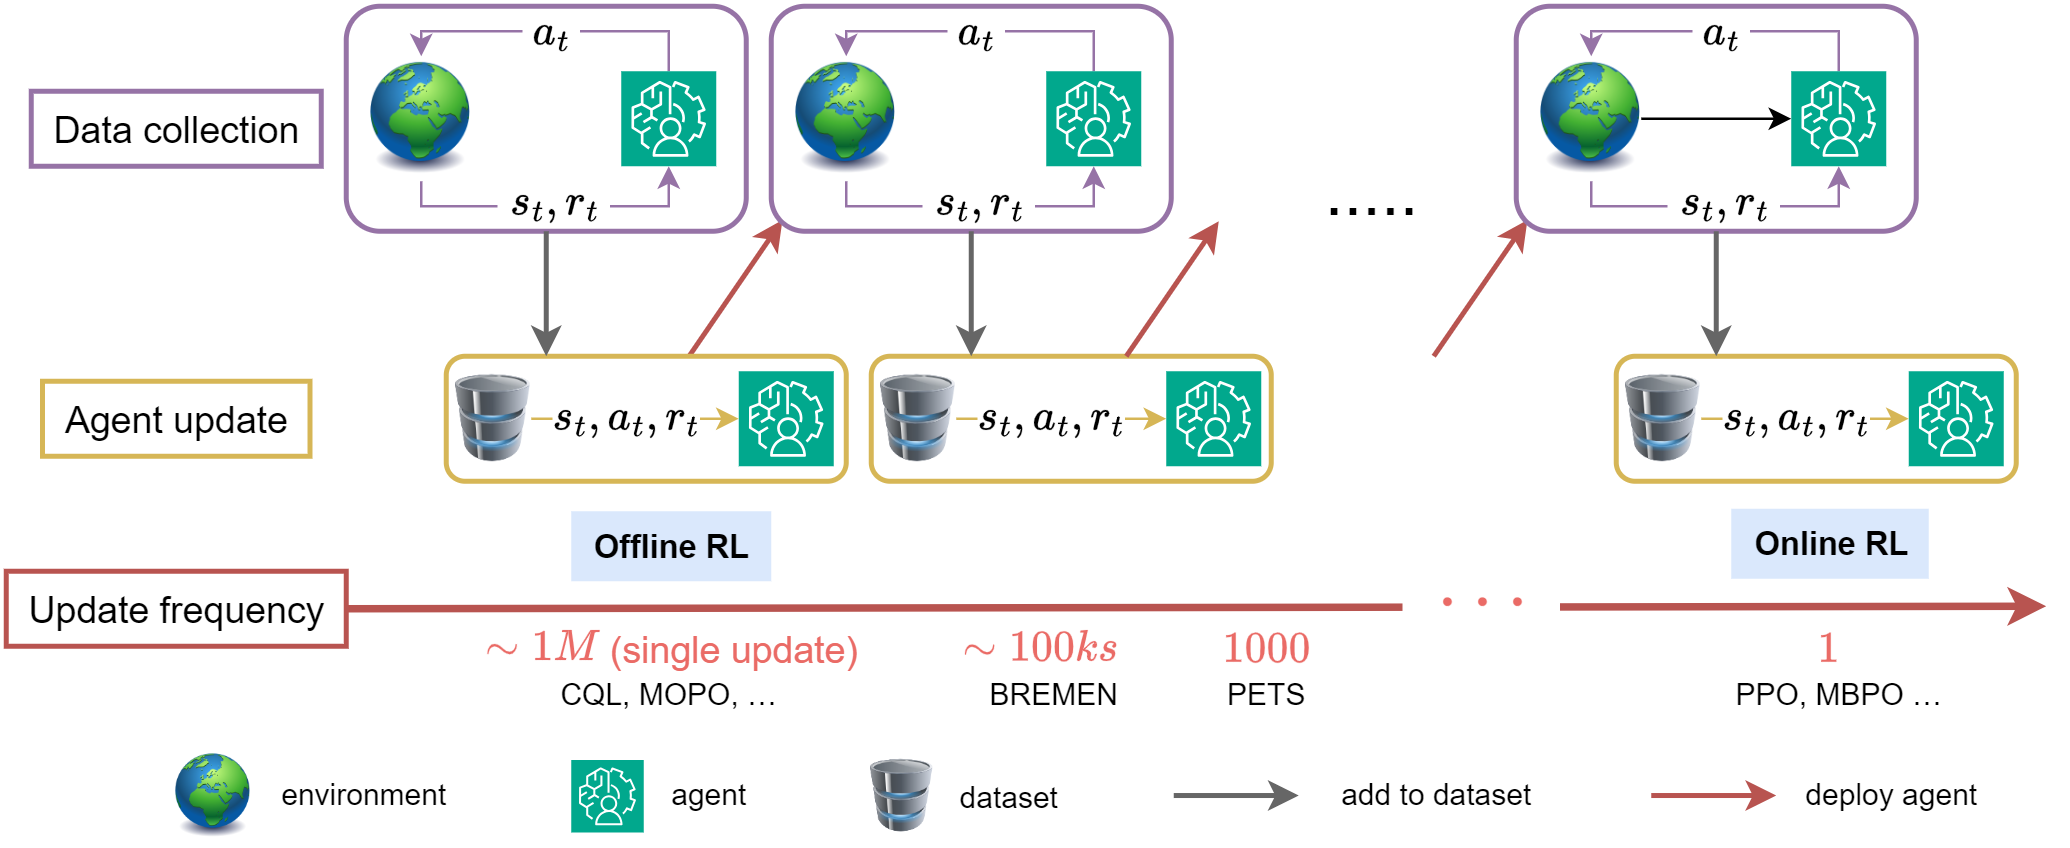
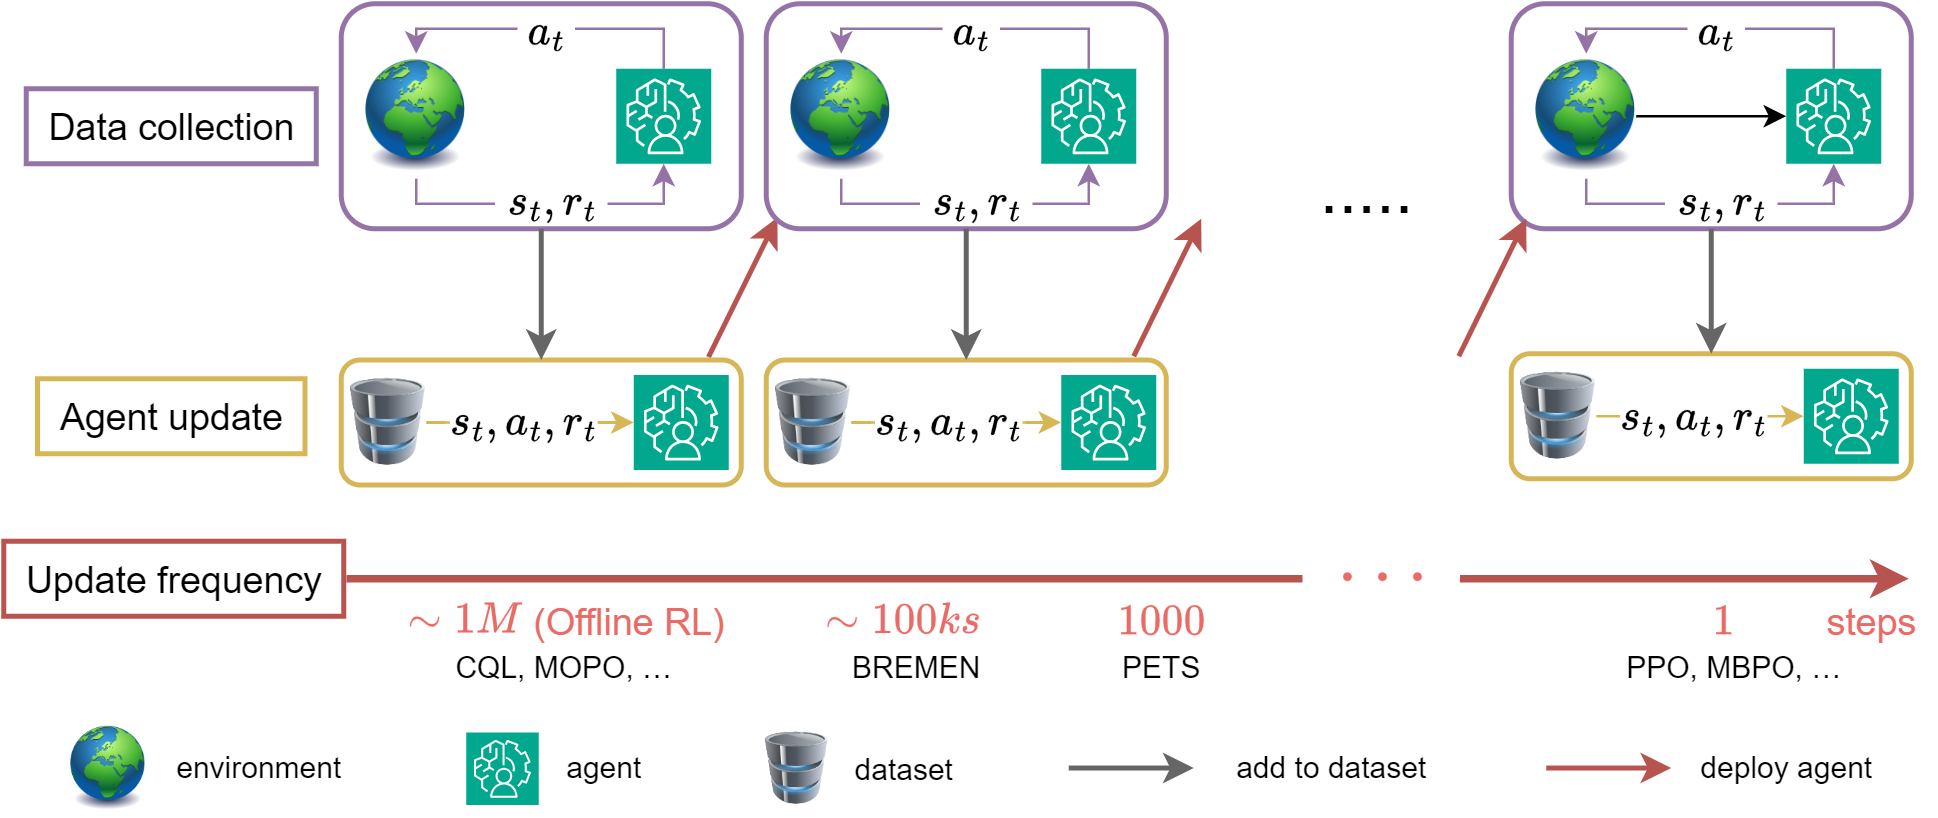
pass

diff --git a/_posts/2024-05-07-update-frequency-in-mbrl.md b/_posts/2024-05-07-update-frequency-in-mbrl.md
@@ -15,9 +15,9 @@ authors:
   - name: Abdelhakim Benechehab
     url: https://scholar.google.com/citations?user=JxgqOKwAAAAJ
     affiliations:
-      name: Huawei Noah's Ark Lab
+      name: Huawei Noah's Ark Lab - Department of Data Science, EURECOM, France
   - name: Giuseppe Paolo
-    url: XXX
+    url: https://www.giupaolo.com
     affiliations:
       name: Huawei Noah's Ark Lab
   - name: Balázs Kégl
@@ -73,10 +73,9 @@ In reinforcement learning <d-cite key="Sutton1998"></d-cite>, an agent learns to
 
 There are two main approaches when designing a reinforcement learning algorithm: model-based or model-free. Model-based reinforcement learning (MBRL) algorithms <d-cite key="Moerland2021"></d-cite> first learn a model of the environment dynamics which, given a state of the environment and an action, predicts the next state of the environment. This model can then be used in place of the real environment to learn or decide how to act. Model-free algorithms avoid this step and directly try to learn a policy. As model-based reinforcement algorithms can rely on the learned dynamics model instead of the real environment, they are known to be more sample efficient than model-free algorithms (see for instance <d-cite key="Chua2018"></d-cite> or <d-cite key="Janner2019"></d-cite>). MBRL is thus a good choice when interactions with the environment are limited, which is often the case for real applications such as controlling engineering systems.
 
-We discuss here about one of the design choices of MBRL algorithms: the *update frequency* of the agent. As shown in the following figure, inspired by the one done in <d-cite key="Matsushima2021"></d-cite>, the frequency at which algorithms update their agent varies widely: some algorithms update their agent after each step on the real system <d-cite key="Janner2019"></d-cite> while others update after thousands of steps <d-cite key="Matsushima2021"></d-cite>. At the end of the spectrum, the pure offline setting considers only a single training of the agent from an initial dataset <d-cite key="Yu2020"></d-cite><d-footnote> We observe that similar differences in update frequency exist in the model-free literature but we decide to focus only on model-based algorithms.</d-footnote>.
+We discuss here about one of the design choices of MBRL algorithms: the *update frequency* of the agent. As shown in the figure below<d-footnote> This figure is inspired by Figure 1 in <d-cite key="Matsushima2021"></d-cite>.</d-footnote>, the frequency at which algorithms update their agent varies widely: some algorithms update their agent after each step on the real system <d-cite key="Janner2019"></d-cite> while others update after thousands of steps <d-cite key="Matsushima2021"></d-cite>. At the end of the spectrum, the pure offline setting considers only a single training of the agent from an initial dataset <d-cite key="Yu2020"></d-cite><d-footnote> We observe that similar differences in update frequency exist in the model-free literature but we decide to focus only on model-based algorithms.</d-footnote>.
 
 {% include figure.html path="assets/img/2024-05-07-update-frequency-in-mbrl/bremen.png" class="img-fluid" %}
-
 
 The update frequency is often viewed as yet another hyperparameter of the complex MBRL pipeline. However, in practice the update frequency may be imposed by real-life deployment constraints, motivating the discussions in this blog post. It is often the case that for safety reasons, system engineers agree to run a new agent on their system for a given period of time but prefer the agent to be fixed during this deployment, as <d-cite key="Matsushima2021"></d-cite> studies. System engineers are then able to investigate the fixed solution before deciding to deploy it, knowing that it will not change during the deployment. It also happens that the system on which the agent is deployed does not have the required computational resources to support agent updates. Such real-life constraints could thus discard state-of-the-art MBRL algorithms that require updating their agent too frequently to perform well.
     
@@ -92,8 +91,7 @@ We begin by introducing three popular MBRL algorithms (MBPO, PETS and BREMEN) as
 ## Three popular MBRL algorithms
     
 The following table gives an overview of the update frequency of the three algorithms we discussed below and few others. This table is not meant to provide an exhaustive list of all the MBRL algorithms but rather to give an idea of the different training schedules that are used in the literature.
-
-    
+  
 | Algorithm | Agent update frequency | Policy update frequency   | Model update frequency |
 |-----------|----------------------|---------------------------|------------------------|
 | MBPO <d-cite key="Janner2019"></d-cite> | 1 step               | 1 step                    | 250 steps              | 
@@ -105,10 +103,10 @@ The following table gives an overview of the update frequency of the three algor
 
 ### MBPO
 
-Model-based Policy Optimization (MBPO) <d-cite key="Janner2019"></d-cite> <d-footnote>Original code available at https://github.com/jannerm/mbpo</d-footnote> is one of the most well-known model-based algorithms. The algorithm trains an ensemble of probabilistic neural networks for the dynamics model <d-cite key="Chua2018"></d-cite> and trains a model-free agent, Soft Actor Critic (SAC) <d-cite key="Haarnoja2018"></d-cite>, using short rollouts on the model to avoid the accumulation of errors one would obtain by sampling long rollouts on the model. The agent is updated at each step: the model is updated each 250 steps but the SAC policy is updated at each step. This highly frequent update schedule discards MBPO even for small deployments on real systems. 
+Model-based Policy Optimization (MBPO) <d-cite key="Janner2019"></d-cite> <d-footnote>Original code available at https://github.com/jannerm/mbpo</d-footnote> is one of the most well-known model-based algorithms. The algorithm trains an ensemble of probabilistic neural networks for the dynamics model <d-cite key="Chua2018"></d-cite> and trains a model-free agent, Soft Actor Critic (SAC) <d-cite key="Haarnoja2018"></d-cite>, using short rollouts on the model to avoid error accumulation. The agent is updated at each step: the model is updated each 250 steps but the SAC policy is updated at each step. This highly frequent update schedule discards MBPO even for small deployments on real systems. 
 
 ### PETS
-Probabilistic Ensemble and Trajectory Sampling (PETS) <d-cite key="Chua2018"></d-cite> <d-footnote>Original code available at https://github.com/kchua/handful-of-trials</d-footnote> is another popular model-based algorithm known for its use of an ensemble of probabilistic neural networks for the dynamics model (MBPO uses the dynamics model introduced by PETS). PETS relies on the learned model and the Cross-Entropy Method (CEM) to search for the best action sequence at decision time. Therefore, it does not have to learn (nor update) a policy, as MBPO does with SAC. The only component that needs learning is the dynamics model. Compared to MBPO, the dynamics model is updated at the end of each episode (usually 1000 steps).
+Probabilistic Ensemble and Trajectory Sampling (PETS) <d-cite key="Chua2018"></d-cite> <d-footnote>Original code available at https://github.com/kchua/handful-of-trials</d-footnote> is another popular model-based algorithm known for its use of an ensemble of probabilistic neural networks for the dynamics model (MBPO uses the dynamics model introduced by PETS). PETS relies on the learned model and the Cross-Entropy Method to search for the best action sequence at decision time. Therefore, it does not have to learn (nor update) a policy, as MBPO does with SAC. The only component that needs learning is the dynamics model. Compared to MBPO, the dynamics model is updated at the end of each episode (usually 1000 steps).
     
 
 ### BREMEN
@@ -118,7 +116,7 @@ We now detail the main arguments of our blog post: making the update frequency m
     
 ## Making the update frequency more accessible
 
-Experiments done in popular papers do not always explicit the update frequencies they use for each of the algorithms they run. When nothing is said, it is very likely that most of the times the benchmarks are using the original implementation of the algorithms, shared by the authors of the algorithms in the best case. For instance the MBPO paper <d-cite key="Janner2019"></d-cite> does not mention the update frequencies that are used in the experiments. The update frequency can be found in the code shared by the authors. However it is harder to find the update frequency that the authors used for PETS. We thus assume that they use the original PETS update frequency, which updates the agent at the end of each episode. We also looked at one of the most exhaustive benchmark of MBRL algorithms <d-cite key="Wang2019"></d-cite>. Nothing is said in the paper about the update frequency and a careful investigation of the code provided by the authors is required (more on this later).
+Experiments done in popular papers do not always explicit the update frequencies they use for each of the algorithms they run. When nothing is said, it is very likely that most of the times the benchmarks are using the original implementation of the algorithms, shared by the authors of the algorithms in the best case. For instance the MBPO paper <d-cite key="Janner2019"></d-cite> does not mention the update frequencies that the authors used in their experiments. The update frequency of MBPO can be found in the code shared by the authors. However it is harder to find the update frequency that the authors used for PETS. We thus assume that they use the original PETS update frequency, which updates the agent at the end of each episode. We also looked at one of the most exhaustive benchmark of MBRL algorithms <d-cite key="Wang2019"></d-cite>. Nothing is said in the paper about the update frequency and a careful investigation of the code provided by the authors is required (more on this later).
     
 The difficulty in knowing the update frequencies used in benchmarks makes it harder for the researchers and practitioners to take this parameter into account to assess the performance of the algorithms and whether they would be good candidates for their real-life applications. It also demands much more investigation from the reader to know what the authors used.
 
@@ -128,7 +126,7 @@ MBRL algorithms have an order of magnitude more meaningful hyperparameters than 
     
 We want to make the community aware of the importance of the update frequency when comparing algorithms and when designing benchmarks. Running benchmarks without any constraints allows using different update frequencies for each algorithm. We believe that such benchmarks are valuable for the community. However it would also be very informative for the community to have benchmarks with comparable update frequencies between the algorithms. This would for instance help to find the potentially best algorithms for real applications with constraints on the update frequency.
     
-Coming back to the experiments run in MBPO's paper, as the default MBPO implementation updates the model each 250 steps, it might also make sense to allow PETS to be updated each 250 steps as well to have comparable results. We also note that the MBRL-Lib paper <d-cite key="Pineda2021"></d-cite> compares the MBRL-Lib implementations of PETS and MBPO with their respective original update frequency. We do not think that this would have a big impact for these two algorithms but it would be fairer to use the same update frequency. Looking at the code of the MBRL benchmark done by <d-cite key="Wang2019"></d-cite>, it is not clear whether the same update frequency is used for all the algorithms of the benchmark <d-footnote>For instance it seems the update frequency on Acrobot is 3000 for RS (time_step_per_batch in https://github.com/WilsonWangTHU/mbbl/blob/master/scripts/exp_1_performance_curve/rs.sh) but 5000 for ME-TRPO (num_path_onpol $\times$ env_horizon in https://github.com/WilsonWangTHU/mbbl-metrpo/blob/master/configs/params_acrobot.json).</d-footnote>.
+Coming back to the experiments run in MBPO's paper, as the default MBPO implementation updates the model each 250 steps, it might also make sense to allow PETS to be updated each 250 steps as well to have comparable results. We also note that the MBRL-Lib paper <d-cite key="Pineda2021"></d-cite> compares the MBRL-Lib implementations of PETS and MBPO with their respective original update frequency. We do not think that this would have a big impact for these two algorithms but it would be fairer to use the same update frequency. Finally, looking at the code of the MBRL benchmark done by <d-cite key="Wang2019"></d-cite>, it is not clear whether the same update frequency is used for all the algorithms of the benchmark <d-footnote>For instance it seems the update frequency on Acrobot is 3000 for RS (time_step_per_batch in https://github.com/WilsonWangTHU/mbbl/blob/master/scripts/exp_1_performance_curve/rs.sh) but 5000 for ME-TRPO (num_path_onpol $\times$ env_horizon in https://github.com/WilsonWangTHU/mbbl-metrpo/blob/master/configs/params_acrobot.json).</d-footnote>.
     
 The BREMEN paper <d-cite key="Matsushima2021"></d-cite> has a benchmark comparing different algorithms under fixed update frequencies. This gives valuable insights on the performance of the existing algorithms under these deployment constraints. The next step would be to evaluate the performance with a different number of deployments and a different number of steps per deployment, which we now argue for in the next section.
     
@@ -163,7 +161,7 @@ When trying these values of updates frequencies we adjusted the number of gradie
 
 ## Conclusion
     
-The goal of this blog post is to shed light on a frequently overlooked hyperparameter in MBRL: the update frequency. Despite its importance for real-life applications, this parameter is rarely discussed or analyzed. We emphasize the importance of running more evaluations using consistent update frequencies across different algorithms and more ablation studies. We for instance show how the update frequency impacts the performance of MBPO on Halfcheetah and Hopper. Similar to the update frequency, we can identify several other hyperparameters that deserve more attention when benchmarking different MBRL algorithms. A typical example is the continual training (of the model and/or policy) versus retraining from scratch (referred to as the primacy bias in some previous work <d-cite key="Nikishin2022"></d-cite> <d-cite key="Qiao2023"></d-cite>). We believe this blog post offers valuable insights to researchers, providing directions that would be worth investigating to explain the differences between MBRL algorithms and whether these differences really impact the existing comparisons.
+The goal of this blog post is to shed light on a frequently overlooked hyperparameter in MBRL: the update frequency. Despite its importance for real-life applications, this parameter is rarely discussed or analyzed. We emphasize the importance of running more evaluations using consistent update frequencies across different algorithms and more ablation studies. We for instance show how the update frequency impacts the performance of MBPO. Similar to the update frequency, we can identify several other hyperparameters that deserve more attention when benchmarking different MBRL algorithms. A typical example is the continual training (of the model and/or policy) versus retraining from scratch (referred to as the primacy bias in some previous work <d-cite key="Nikishin2022"></d-cite> <d-cite key="Qiao2023"></d-cite>). We believe this blog post offers valuable insights to researchers, providing directions that would be worth investigating to explain the differences between MBRL algorithms and whether these differences really impact the existing comparisons.
     
     
 ## Appendix
